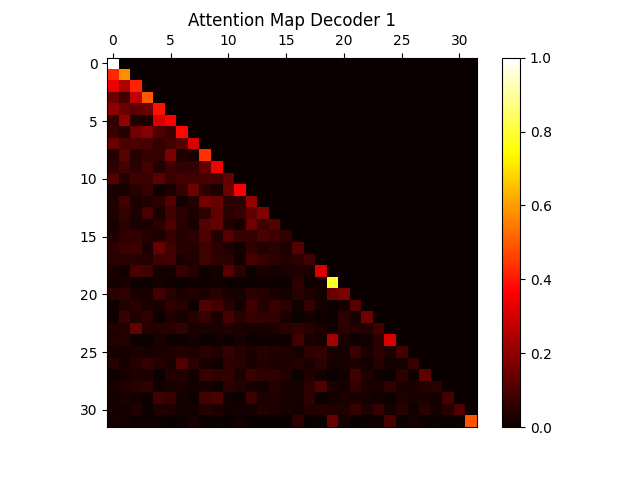
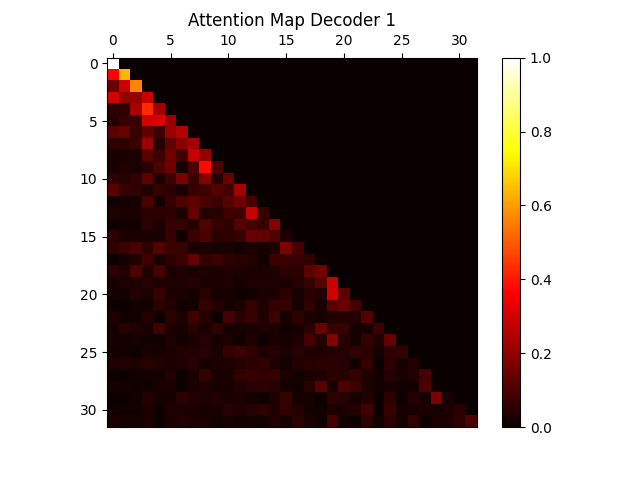
Alibi encoding

diff --git a/PA2/PA2_code/transformer_encoder_modified.py b/PA2/PA2_code/transformer_encoder_modified.py
@@ -1,0 +1,167 @@
+import torch
+import torch.nn as nn
+import torch.nn.functional as F
+import math
+
+
+class MultiHeadAttention(nn.Module):
+    def __init__(self, embd_dim, num_heads):
+        super().__init__()
+        self.num_heads = num_heads
+        self.embd_dim = embd_dim
+
+        # Ensure the embedding dimension is divisible by the number of heads
+        assert self.embd_dim % self.num_heads == 0, "Embedding dimension must be divisible by number of heads"
+
+        self.depth = self.embd_dim // self.num_heads
+
+        self.wq = nn.Linear(self.embd_dim, self.embd_dim, bias=False)
+        self.wk = nn.Linear(self.embd_dim, self.embd_dim, bias=False)
+        self.wv = nn.Linear(self.embd_dim, self.embd_dim, bias=False)
+        self.dense = nn.Linear(self.embd_dim, self.embd_dim)
+
+    def split_heads(self, x, batch_size):
+        # x is initially in shape (batch_size, seq_len, emb_dim)
+        # Split the emb_dim into (num_heads, depth)
+        x = x.view(batch_size, -1, self.num_heads, self.depth)
+        # Permute to get dimensions (batch_size, num_heads, seq_len, depth)
+        return x.permute(0, 2, 1, 3)
+
+    def forward(self, q, k, v, alibi, mask=None):
+        batch_size = q.size(0)
+        seq_len = q.size(1)  # Make sure this is indeed sequence length
+
+        # the size of q, k,v is (batch_size, num_heads, seq_len, depth)
+        q = self.split_heads(self.wq(q), batch_size)
+        k = self.split_heads(self.wk(k), batch_size)
+        v = self.split_heads(self.wv(v), batch_size)
+
+        # Ensure calculations respect the seq_len and batch_size distinction
+        matmul_qk = torch.matmul(q, k.transpose(-2, -1))  # Heads, Batch, Seq_len
+        scale = torch.sqrt(torch.tensor(self.depth, dtype=torch.float32))
+        scaled_attention_logits = matmul_qk / scale
+
+        # Apply AliBi (Attention with Linear Biases)
+        scaled_attention_logits += alibi[:, :, :seq_len, :seq_len]
+
+        if mask is not None:
+            scaled_attention_logits += (mask * -1e9)
+
+        # the size of attention_weights is (batch_size, num_heads, seq_len, seq_len)
+        attention_weights = F.softmax(scaled_attention_logits, dim=-1)
+
+        output = torch.matmul(attention_weights, v)
+
+        # Correcting the concatenate and reshape logic
+        output = output.permute(0, 2, 1, 3).contiguous()
+        output = output.view(batch_size, seq_len, self.embd_dim)  # Correcting this line to use seq_len
+
+        # Final linear layer
+        output = self.dense(output)
+        attention_weights = attention_weights[:, 0, :, :]
+        return output, attention_weights
+
+
+class PositionwiseFeedforward(nn.Module):
+    def __init__(self, embd_dim, d_ff):
+        super().__init__()
+        self.fc1 = nn.Linear(embd_dim, d_ff)
+        self.fc2 = nn.Linear(d_ff, embd_dim)
+
+    def forward(self, x):
+        x = F.relu(self.fc1(x))
+        x = self.fc2(x)
+        return x
+
+
+class TransformerEncoderLayer(nn.Module):
+    def __init__(self, embd_dim, num_heads, d_ff):
+        super().__init__()
+        self.self_attn = MultiHeadAttention(embd_dim, num_heads)
+        self.feed_forward = PositionwiseFeedforward(embd_dim, d_ff)
+        self.norm1 = nn.LayerNorm(embd_dim)
+        self.norm2 = nn.LayerNorm(embd_dim)
+
+    def forward(self, src, alibi, src_mask=None):
+        # the size of the src is (seq_len, batch_size, emb_dim)
+        src2 = self.norm1(src)
+        src2 = src2.permute(1, 0, 2)
+        # the size of the attn_map is (batch_size, num_heads, seq_len, seq_len)
+        attn_output, attn_map = self.self_attn(src2, src2, src2, alibi, src_mask)  # capture attention map
+        attn_output = attn_output.permute(1, 0, 2)
+        src = src + attn_output
+        src2 = self.norm2(src)
+        src = src + self.feed_forward(src2)
+        return src, attn_map
+
+
+class TransformerEncoder(nn.Module):
+    def __init__(self, vocab_size, n_embd, n_head, n_layer, block_size):
+        super().__init__()
+        self.vocab_size = vocab_size
+        self.n_embd = n_embd
+        self.n_head = n_head
+        self.n_layer = n_layer
+        self.block_size = block_size
+
+        self.embed = nn.Embedding(self.vocab_size, self.n_embd)
+        self.pos_embed = nn.Parameter(torch.zeros(1, self.block_size, self.n_embd))
+        self.layers = nn.ModuleList([
+            # In the feed forward network, the hidden layer size is 4 times the embedding dimension
+            TransformerEncoderLayer(self.n_embd, self.n_head, 4 * self.n_embd) for _ in range(self.n_layer)
+        ])
+
+    def create_alibi(self, batch_size, num_heads, seq_len):
+        # Create AliBi mask with the bias increasing linearly for each head
+        alibi = torch.arange(seq_len).unsqueeze(0).unsqueeze(0)
+        alibi = alibi.repeat(batch_size, num_heads, 1)
+        alibi = alibi.unsqueeze(-1) - alibi.unsqueeze(-2)
+        alibi = torch.abs(alibi).float()
+        alibi = alibi.to(next(self.parameters()).device)  # Ensure same device
+        return alibi
+
+    def forward(self, x):
+        # the size of x is (batch_size, seq_len, emb_dim)
+        batch_size = x.size(0)
+        seq_len = x.size(1)
+        alibi = self.create_alibi(batch_size, self.n_head, seq_len)
+
+        x = self.embed(x) + self.pos_embed[:, :x.size(1), :]
+        x = x.permute(1, 0, 2)  # Transformer expects (seq_len, batch, emb_dim)
+
+        attention_maps = []  # List to store attention maps from each layer
+        for layer in self.layers:
+            x, attn_map = layer(x, alibi)
+            attention_maps.append(attn_map)
+
+        x = x.permute(1, 0, 2)  # Back to (batch, seq_len, emb_dim)
+        out = x.mean(dim=1)  # Mean over sequence dimension for classification
+
+        return out, attention_maps
+
+
+class FeedforwardClassifier(nn.Module):
+    def __init__(self, n_input, n_hidden, n_output):
+        super().__init__()
+        self.fc1 = nn.Linear(n_input, n_hidden)
+        self.relu = nn.ReLU()
+        self.fc2 = nn.Linear(n_hidden, n_output)
+        self.log_softmax = nn.LogSoftmax(dim=1)
+
+    def forward(self, x):
+        x = self.fc1(x)
+        x = self.relu(x)
+        x = self.fc2(x)
+        return self.log_softmax(x)
+
+
+class UnifiedClassifier(nn.Module):
+    def __init__(self, encoder, classifier):
+        super(UnifiedClassifier, self).__init__()
+        self.encoder = encoder
+        self.classifier = classifier
+
+    def forward(self, x):
+        embeddings, _ = self.encoder(x)
+        output = self.classifier(embeddings)
+        return output

diff --git a/PA2/PA2_code/modification_usage.py b/PA2/PA2_code/modification_usage.py
@@ -1,0 +1,141 @@
+import os
+import nltk
+import torch
+from torch.nn.utils.rnn import pad_sequence
+from torch.utils.data import DataLoader
+from torch.utils.data import random_split
+from transformer_encoder_modified import TransformerEncoder, FeedforwardClassifier, UnifiedClassifier
+from utilities import Utilities
+import torch.nn as nn
+import torch.optim as optim
+
+nltk.download('punkt')
+from tokenizer import SimpleTokenizer
+from dataset import SpeechesClassificationDataset, LanguageModelingDataset
+from transformer_decoder import GPTLanguageModel
+import numpy as np
+
+seed = 42
+torch.manual_seed(seed)
+np.random.seed(seed)
+
+device = torch.device("cuda" if torch.cuda.is_available() else "cpu")
+
+""" Hyperparameters to use for training to roughly match 
+the numbers mentioned in the assignment description """
+batch_size = 16  # Number of independent sequences  we will process in parallel
+block_size = 32  # Maximum context length for predictions
+learning_rate = 1e-3  # Learning rate for the optimizer
+n_embd = 64  # Embedding dimension
+n_head = 2  # Number of attention heads
+n_layer = 4  # Number of transformer layers
+
+eval_interval = 10  # How often to evaluate train and test perplexity during training
+max_iters = 500  # For language modeling, we can process all the batches for the entire dataset, but that takes a while, so we'll limit it to 500 iterations. For batch size of 16 and block size of  32, this is roughly, this is  500 * 16 * 32 = 256000 tokens, SOTA LMs are trained on trillions of tokens, so this is a very small dataset.
+eval_iters = 20  # Number of iterations to evaluate perplexity on the test set
+
+## classifier training hyperparameters. It is a simple 1 hidden layer feedforward network, with input
+## size of 64, hidden size of 50 and output size of 3.
+
+n_input = 64  # Input size for the classifier, should match the embedding size of the transformer
+n_hidden = 100  # Hidden size for the classifier
+n_output = 3  # Output size for the classifier, we have 3 classes
+epochs_CLS = 15  # epochs for classifier training
+
+
+def load_texts(directory):
+    """
+    This function loads all texts from the specified directory, ignoring any files with "test" in their name. The text is used for "training" the tokenizer. Since our tokenizer is simple, we don't need to do any training, but we still need to ignore the test data. 
+    """
+
+    texts = []
+    files = os.listdir(directory)
+    for filename in files:
+        if "test" in filename:  ## don't "read test files"
+            continue
+        with open(os.path.join(directory, filename), 'r', encoding='utf-8') as file:
+            texts.append(file.read())
+    return texts
+
+
+def collate_batch(batch):
+    """ Collate a batch of data into a single tensor with padding."""
+    data, labels = zip(*batch)  # Separate the data and labels
+    # Pad sequences to the fixed length
+    padded_sequences = pad_sequence(data, batch_first=True, padding_value=0)
+    padded_sequences = padded_sequences[:, :block_size]  # Truncate if longer
+    # Add padding if shorter
+    padded_sequences = torch.nn.functional.pad(padded_sequences, (0, max(0, block_size - padded_sequences.shape[1])),
+                                               "constant", 0)
+    labels = torch.stack(labels)
+    return padded_sequences, labels
+
+
+def compute_classifier_accuracy(classifier, data_loader):
+    """ Compute the accuracy of the classifier on the data in data_loader."""
+    classifier.eval()
+    total_correct = 0
+    total_samples = 0
+    with torch.no_grad():
+        for X, Y in data_loader:
+            X, Y = X.to(device), Y.to(device)
+            outputs = classifier(X)
+            _, predicted = torch.max(outputs.data, 1)
+            total_correct += (predicted == Y).sum().item()
+            total_samples += Y.size(0)
+        accuracy = (100 * total_correct / total_samples)
+        classifier.train()
+        return accuracy
+
+
+def main():
+    print("Loading data and creating tokenizer ...")
+    texts = load_texts('../speechesdataset')
+    tokenizer = SimpleTokenizer(' '.join(texts))  # create a tokenizer from the data
+    print("Vocabulary size is", tokenizer.vocab_size)
+    vocab_size = tokenizer.vocab_size
+
+    train_CLS_dataset = SpeechesClassificationDataset(tokenizer, "../speechesdataset/train_CLS.tsv")
+    train_CLS_loader = DataLoader(train_CLS_dataset, batch_size=batch_size, collate_fn=collate_batch, shuffle=True)
+    val_CLS_dataset = SpeechesClassificationDataset(tokenizer, "../speechesdataset/test_CLS.tsv")
+    val_CLS_loader = DataLoader(val_CLS_dataset, batch_size=batch_size, collate_fn=collate_batch, shuffle=True)
+
+    ################################# Create the encoder and classifier models #################################
+    # for the classification  task, you will train for a fixed number of epochs like this:
+    print("Creating encoder and classifier models ...")
+    encoder = TransformerEncoder(vocab_size, n_embd, n_head, n_layer, block_size).to(device)
+    classifier = FeedforwardClassifier(n_input, n_hidden, n_output).to(device)
+    unified_classifier = UnifiedClassifier(encoder, classifier).to(device)
+    print(sum(p.numel() for p in unified_classifier.parameters()), 'parameters')
+    loss_function = nn.NLLLoss()
+    optimizer = optim.Adam(list(encoder.parameters()) + list(classifier.parameters()), lr=learning_rate)
+    for epoch in range(epochs_CLS):
+        total_loss = 0
+        for xb, yb in train_CLS_loader:  # Assume train_CLS_loader is defined and contains input IDs and labels
+            xb, yb = xb.to(device), yb.to(device)
+
+            # Reset gradient
+            optimizer.zero_grad()
+
+            predictions = unified_classifier(xb)  # Pass the embeddings through the classifier
+
+            # Compute loss
+            loss = loss_function(predictions, yb)
+            total_loss += loss.item()
+
+            # Backward pass
+            loss.backward()
+            optimizer.step()
+
+        # Optionally print average loss per epoch
+        print(f'Epoch {epoch + 1}, Average Loss: {total_loss / len(train_CLS_loader)}')
+
+        # Optionally evaluate and print accuracy on a validation set every epoch
+        if (epoch + 1) % 5 == 0:
+            val_accuracy = compute_classifier_accuracy(unified_classifier,
+                                                       val_CLS_loader)  # Assume val_CLS_loader is defined
+            print(f'Validation Accuracy after Epoch {epoch + 1}: {val_accuracy}%')
+
+
+if __name__ == "__main__":
+    main()
